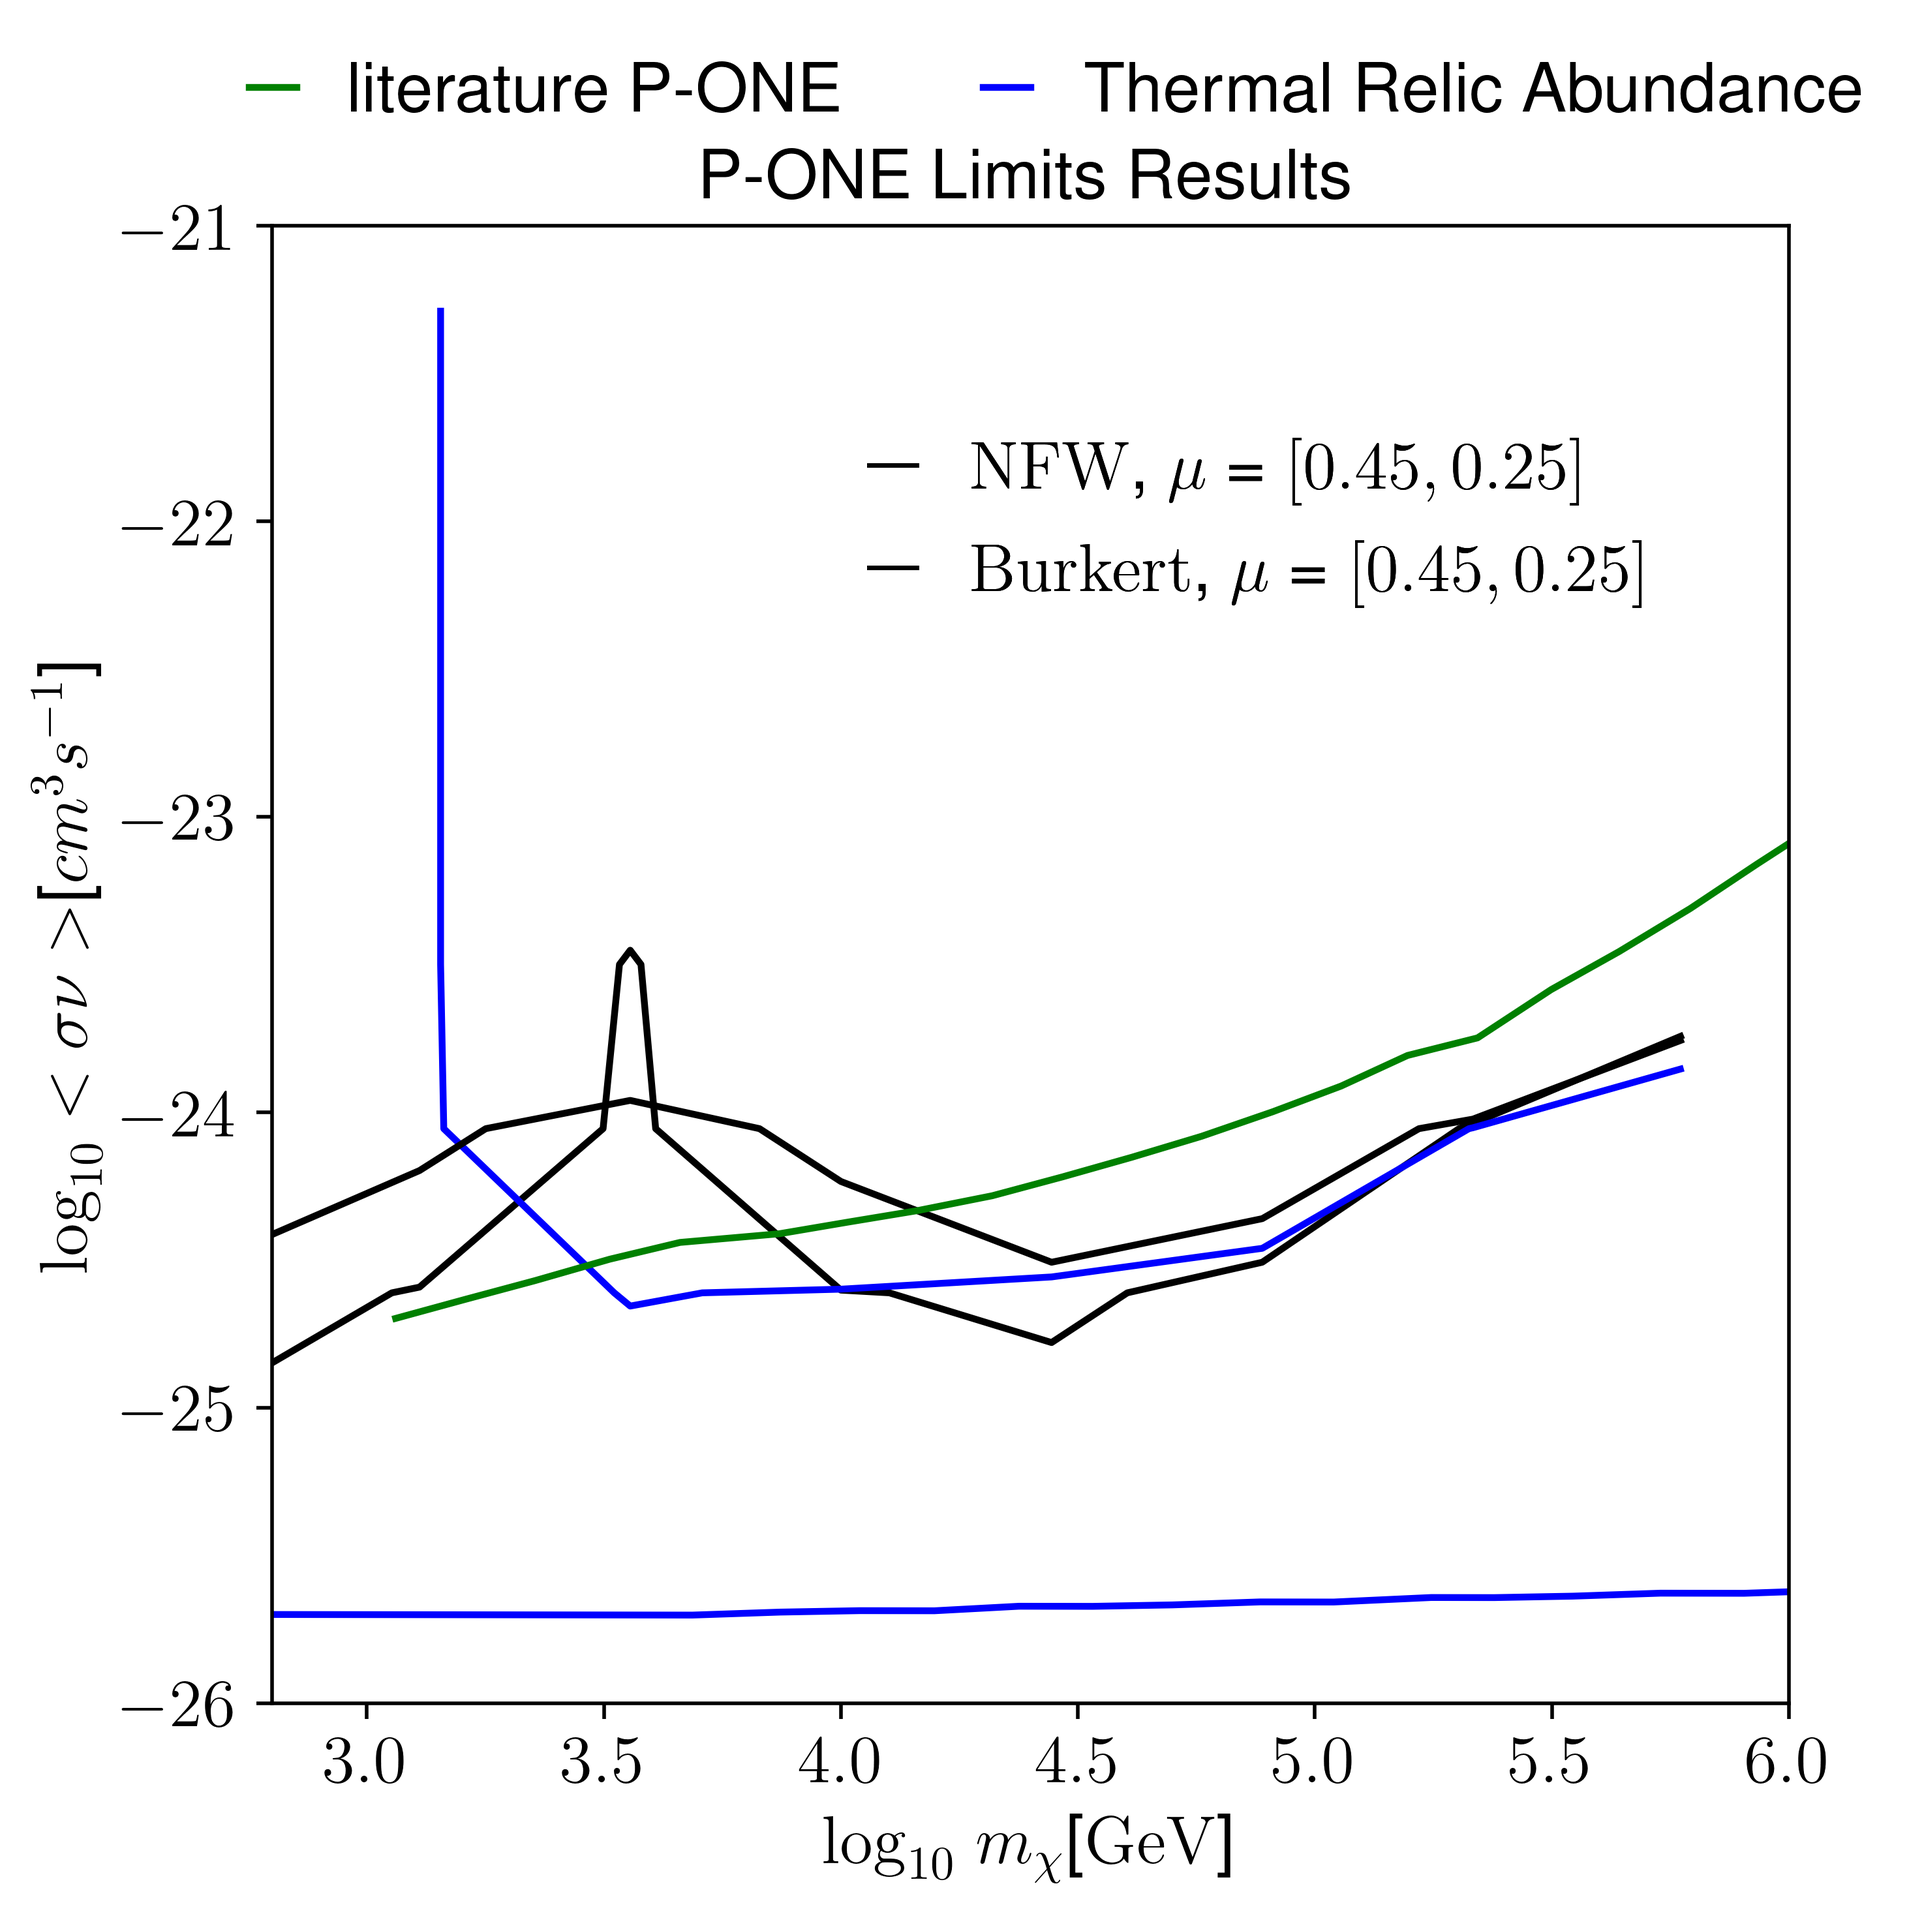
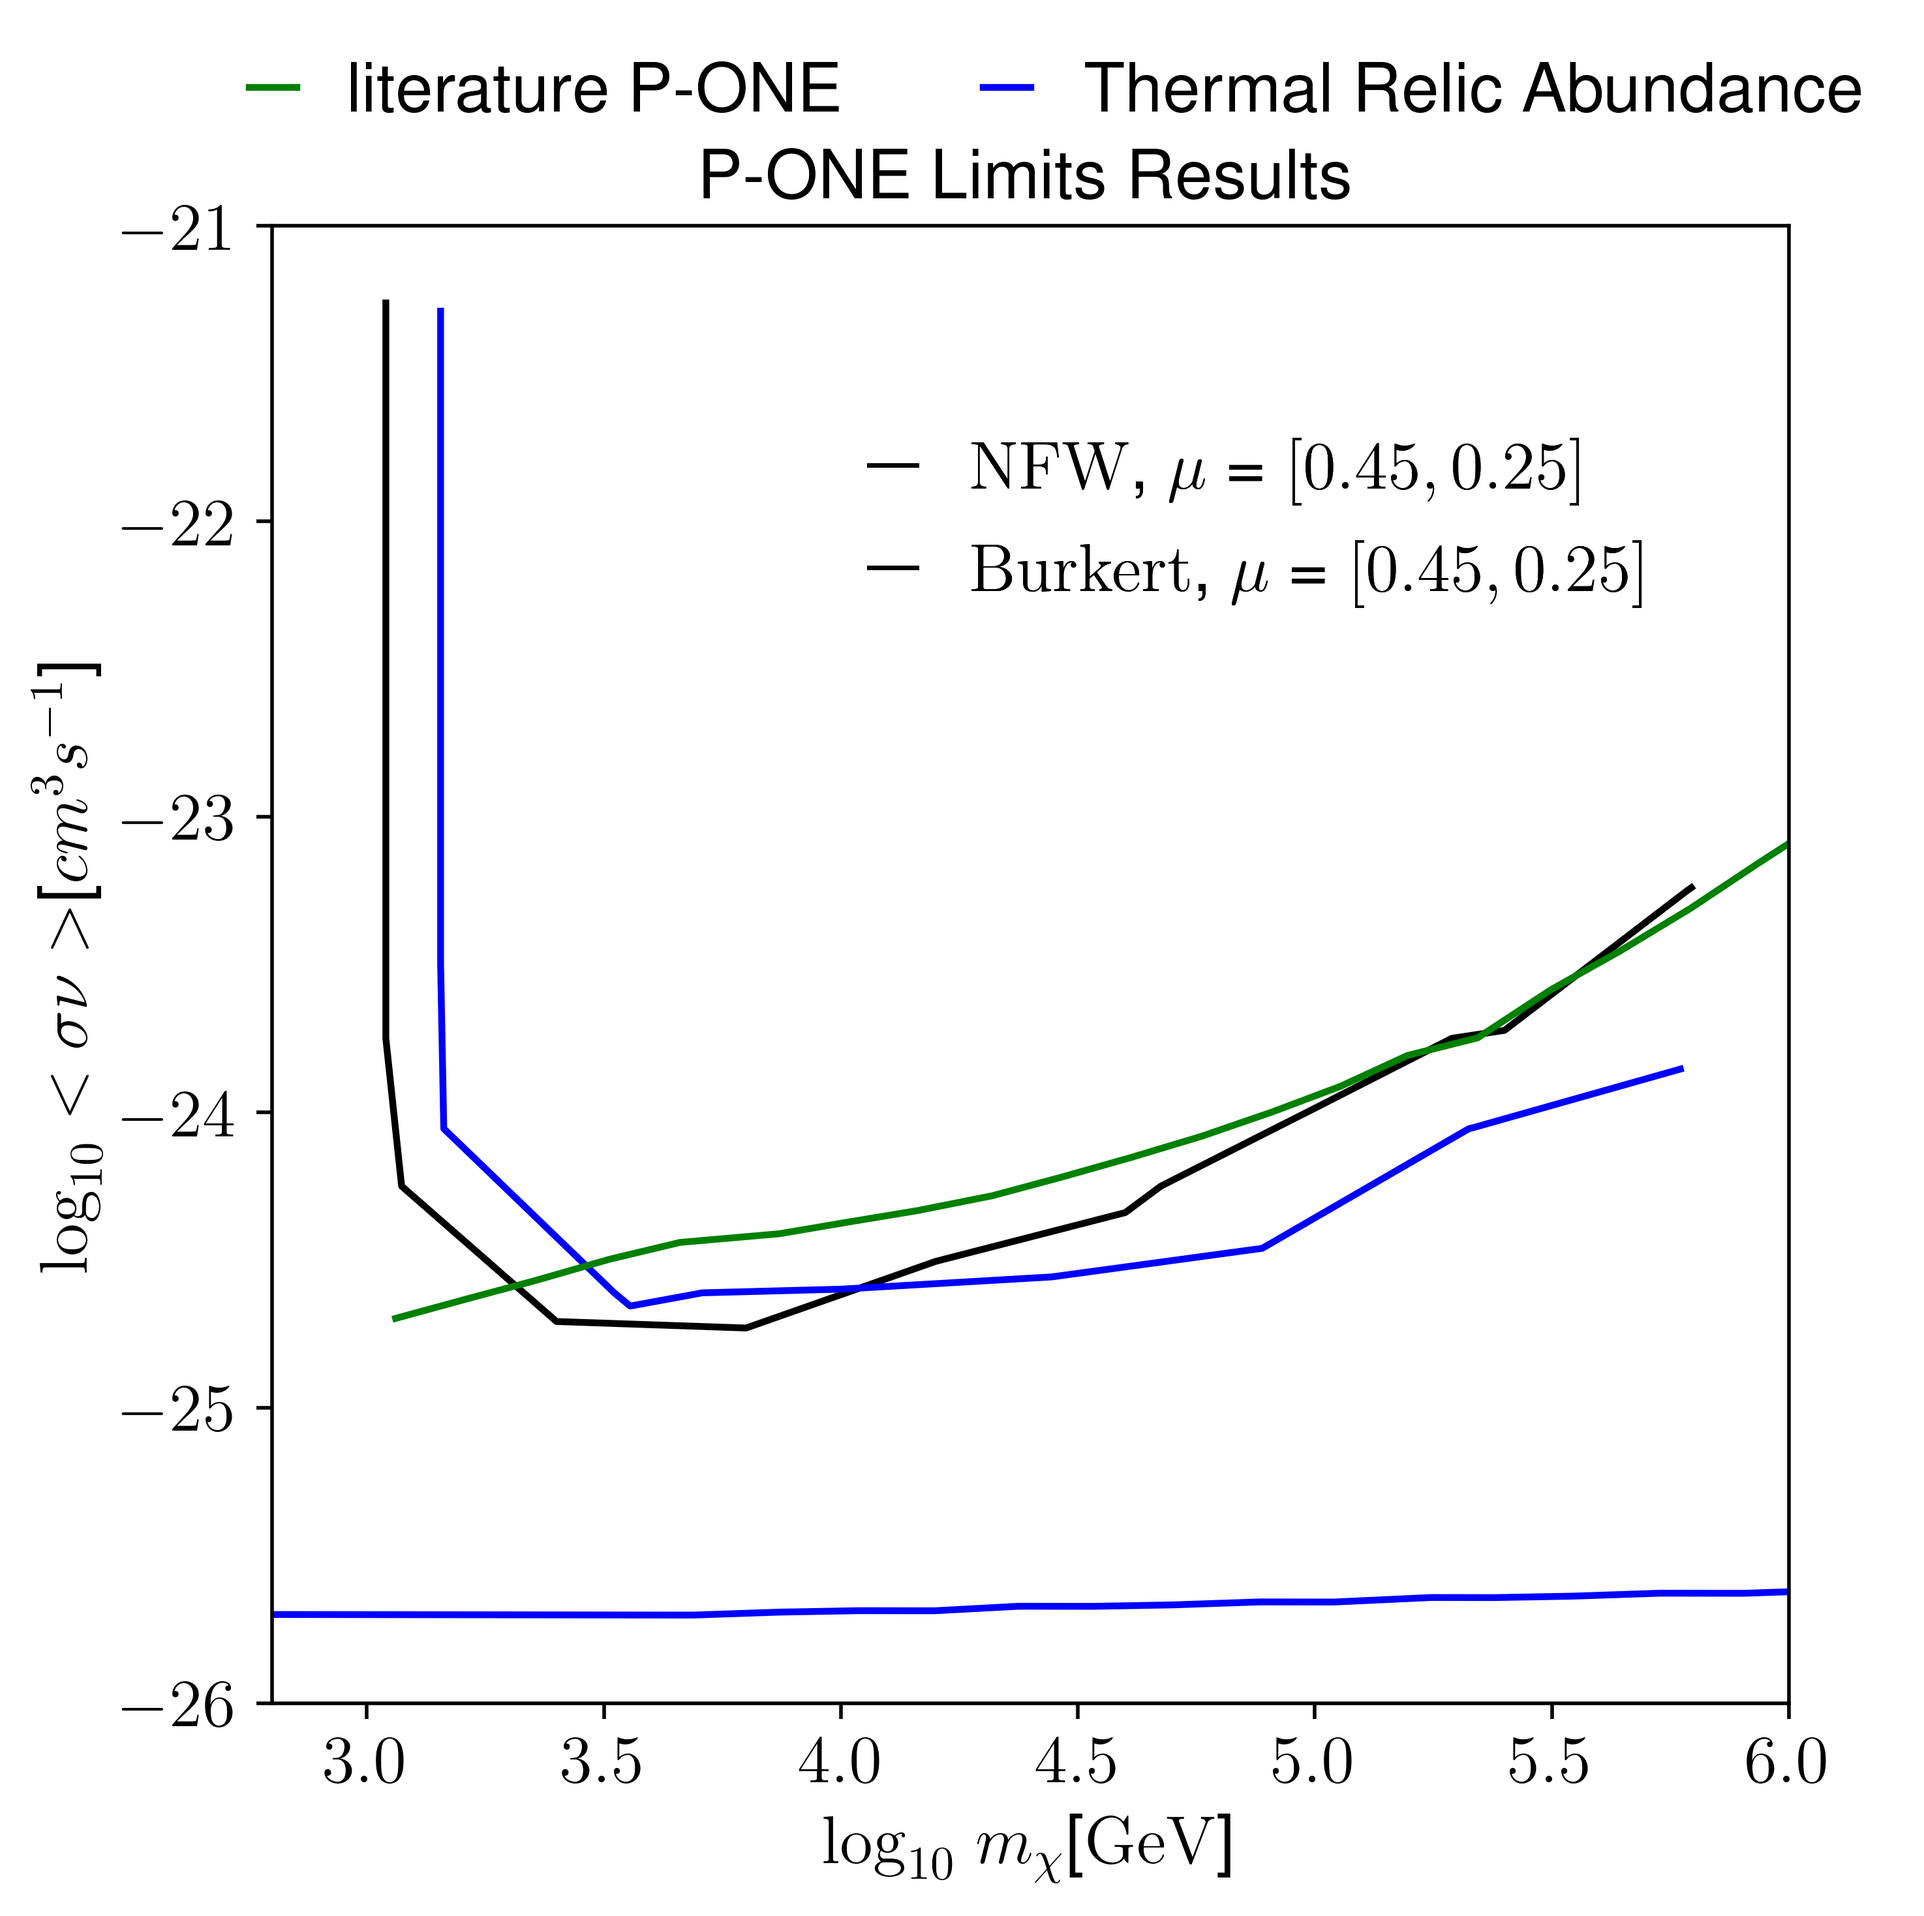
simple commit

diff --git a/pone_dm/detectors.py b/pone_dm/detectors.py
@@ -180,12 +180,12 @@ class Detector(object):
     def smearing_function(self, true_e, true_dec, year):
         """"
         parameters:
-        tru_e : log_10( E )
+        tru_e : log( E )
         true_dec : Declanation
         year : year in interset
 
         return:
-        smearing_e : log_10(E)
+        smearing_e : log(E)
         smearing_fraction : smearing distribution for true over log_10( E )
         grid
         """
@@ -329,7 +329,7 @@ class Detector(object):
         sigma = fraction of E
         ( standard deviation as per definition )
         """
-        pdf = (np.exp(- (np.log10(E) - mu)**2 / (2 * sigma**2)) /
+        pdf = (np.exp(- (np.log(E) - mu)**2 / (2 * sigma**2)) /
                (sigma * np.sqrt(2 * np.pi)))
 
         return pdf
@@ -419,7 +419,8 @@ class Detector(object):
                  Astro) * self._uptime *
                 self._ewidth * self._aeff.spl_A51(self._egrid)
             )
-            self._count[i] = self._count[i]
+            # if boolean_sig:
+            #     print(self._count[i].shape)
 
             if boolean_smeared:
                 tmp_count_mat = []

diff --git a/pone_dm/config.py b/pone_dm/config.py
@@ -30,8 +30,8 @@ _baseconfig = {
         "channel": ["W", "\[Tau]", "b", "All"],
     },
     "simulation parameters": {
-        "mass grid": np.logspace(2, 6, 9),
-        "sv grid": np.logspace(-26, -21, 9),
+        "mass grid": np.logspace(2, 6, 10),
+        "sv grid": np.logspace(-26, -21, 10),
         "uptime": 10 * 365 * 24 * 60 * 60,
         "low energy cutoff": 1.0e3,  # GeV
         "high energy cutoff": 1e6,  # GeV
@@ -101,7 +101,6 @@ _baseconfig = {
         "_d storage": "../data/",
         "atmospheric storage": "../data/",
         "scaling correction": 1e-3
-
     }
 }
 
